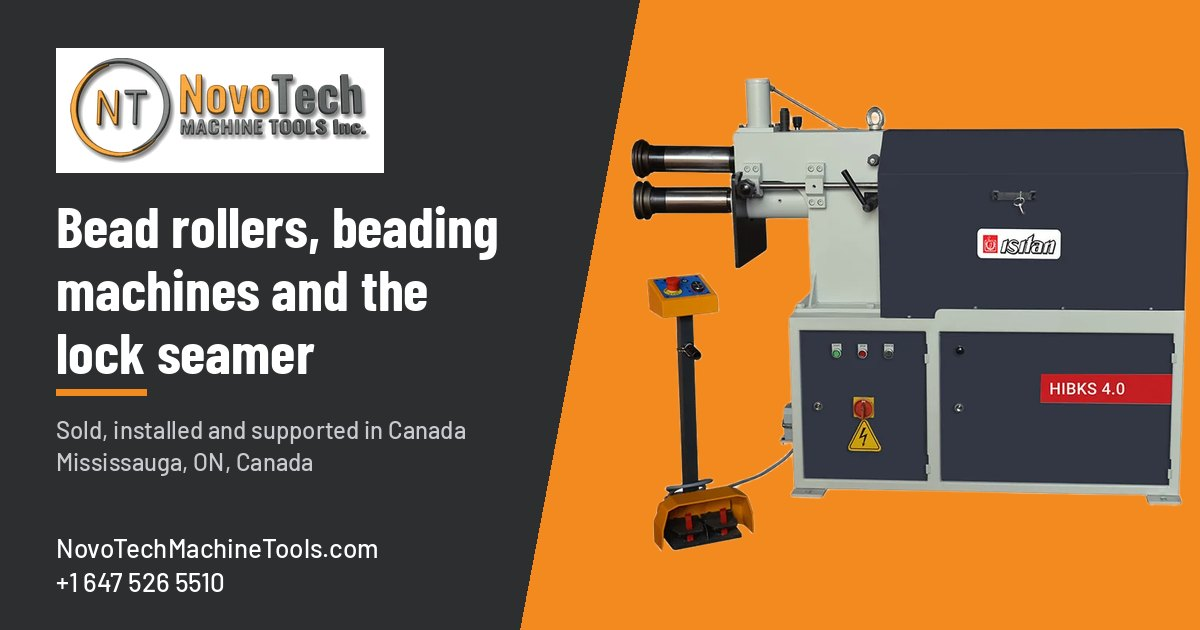
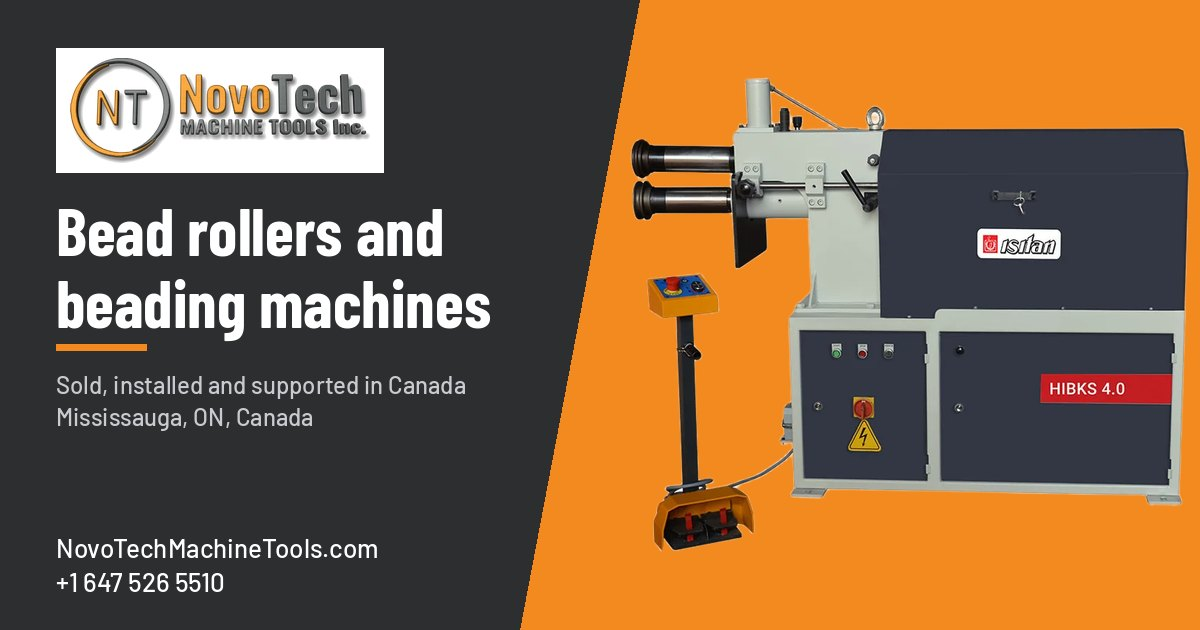
Lock former page: the ISITAN LS-13P lock seamer at the bottom (from the bead roller page); the SL-10 seam closer removed
- isitan_beading.py writes the LS-13P as an extra group on lock-former.html; the bead roller page is bead rollers only
- SL-10 electric seam closer taken off the site: family, group, point, FAQ, hero name, guide photo, llms.txt

Claude-Session: https://claude.ai/code/session_016dY3vwQZD75gmXKm3pvZH9

Changed region(s): [[0.0308, 0.3317, 0.4317, 0.754]]

diff --git a/content/articles/lock-former-guide.html b/content/articles/lock-former-guide.html
@@ -36,7 +36,6 @@
 <li>a hand brake for the cleat edges and flanges</li>
 </ol>
 <p>Round duct and fittings add a slip roll and a power beading and crimping machine. Plan the line so the sheet moves in one direction, from the coil or sheet rack to the finished duct.</p>
-<figure class="guide-figure" data-img="tm-sl10"></figure>
 </section>
 <section class="guide-section" id="lock-former-safety-power">
 <h3>Safety, power and installation</h3>

diff --git a/tools/isitan_beading.py b/tools/isitan_beading.py
@@ -4,6 +4,7 @@ from isitan_lib import *  # noqa: F401,F403
 SET = "beading"
 SECTION = "Bead rollers"
 SLUG = "bead-rollers"
+SLUG_LOCK = "lock-former"     # the LS-13P lock seamer sits at the bottom of the lock former page (the owner, Nov 7 2026)
 
 IMAGES = {
     "is-hibks-4": ("img/ISITAN-HIBKS-4.jpg", "ISITAN HIBKS 4.0 hydraulic bead roller for sheet up to 8 ga"),
@@ -139,7 +140,7 @@ FAMILIES = [
          images=["is-ibks-18", "is-ikm-12", "is-ikmp-12", "is-ikmp-12p", "is-ikm-rolls-std", "is-ikm-rolls-extra"],
          videos=[], specs=t_motorized(),
          headline="Beads sheet up to 14 ga (1.8 mm) · motorized · pneumatic top shaft on the IKMP 1.2 P"),
-    dict(id="isitan-ls-13p", group="seamer", page=SLUG,
+    dict(id="isitan-ls-13p", group="isitan-seamer", page=SLUG_LOCK,
          name="LS-13P pneumatic heavy-duty lock seaming machine",
          short="LS-13P lock seamer",
          models_label="LS-13P",
@@ -156,14 +157,13 @@ FAMILIES = [
 ]
 
 PAGE = dict(
-    title="Bead Rollers & Lock Seamer for Sheet Metal & HVAC | NovoTech",
-    meta="Hydraulic and motorized bead roller machines for sheet to 8 ga — HIBKS, IBKS, IKM and IKMP with beading, swaging and flanging roll sets — and the LS-13P pneumatic lock seamer.",
-    h1="Bead rollers, beading machines and the lock seamer",
+    title="Bead Rollers & Beading Machines for Sheet Metal & HVAC | NovoTech",
+    meta="Hydraulic and motorized bead roller machines for sheet to 8 ga — HIBKS, IBKS, IKM and IKMP with beading, swaging and flanging roll sets.",
+    h1="Bead rollers and beading machines",
     intro="Bead rollers — also called beading machines, rotary machines or swagers — form stiffening beads, wired edges, flanges, crimps and seams in sheet metal for HVAC ducts, drums, tanks, buckets and architectural work. ISITAN builds them motorized and hydraulic — from the IKM and IKMP cast-iron bead rollers with foot-pedal control to the HIBKS 4.0, whose hydraulic top roll beads 8 ga steel under constant pressure. Every machine comes with its sets of standard rolls, a CSA-approved panel and support from Mississauga, ON, Canada.",
-    points=["Hydraulic HIBKS and motorized IBKS for sheet to 8 ga (4 mm)", "Motorized IKM / IKMP with 4 speeds or pneumatic top shaft", "LS-13P lock seamer: closes Pittsburgh and snap-lock seams to 51″ on Ø3.9 – 5.1″ ducts in 18 ga", "Standard roll sets (4 to 8 per machine) and the roll spanner key included; extra sets made to order"],
+    points=["Hydraulic HIBKS and motorized IBKS for sheet to 8 ga (4 mm)", "Motorized IKM / IKMP with 4 speeds or pneumatic top shaft", "Standard roll sets (4 to 8 per machine) and the roll spanner key included; extra sets made to order"],
     hero="is-hibks-4", minis=["is-ikmp-12p", "is-ibks-18"],
-    groups=[("beading", "Bead rollers line-up", "From the IKM motorized bead roller to the hydraulic HIBKS 4.0 — all with standard roll sets included.", "isitan"),
-            ("seamer", "Lock seamer", "The LS-13P pneumatic lock seaming machine that closes the longitudinal seam of round ducts after the bead roller.", "isitan")],
+    groups=[("beading", "Bead rollers line-up", "From the IKM motorized bead roller to the hydraulic HIBKS 4.0 — all with standard roll sets included.", "isitan")],
     faq=[{"q": "Bead roller, beading machine, rotary machine or swager — what is the difference?", "a": "They are the same machine under different names: two shaft-mounted rolls that form a profile in sheet metal as it is turned through them. \"Bead roller\" is the common North American term, \"swager\" the older sheet-metal trade word, \"rotary machine\" the HVAC term. The roll sets decide what it does — beading, wiring, crimping, flanging, burring or trimming."},
          {"q": "Which rolls are included?", "a": "Every ISITAN bead roller ships with its standard roll sets — 4 sets (S1–S4) on the HIBKS / IBKS 4.0 and 2.5, 3 on the IBKS 1.8, 8 sets on the IKM 1.2 and IKMP 1.2 — plus the roll spanner key. Extra sets (E1–E8) and rolls for special jobs are made to order; tell us the profile you need."},
          {"q": "Hydraulic or motorized top roll?", "a": "On the IBKS the operator sets the gap between the rolls by hand and the motor turns them. On the HIBKS the top roll is moved hydraulically, so the pressure stays constant through the bead and deep beads in 8 ga steel are formed in one pass with the foot pedal — the choice for production work and heavier sheet."},
@@ -172,8 +172,24 @@ PAGE = dict(
 )
 
 
+# the LS-13P at the bottom of the value-line lock former page (tools/ttmc_more_pages.py writes that page)
+LOCK_EXTRA = {
+    "slug": SLUG_LOCK, "family_set": SET,
+    "groups": [{"id": "isitan-seamer-group", "title": "Lock seamer for round duct — ISITAN",
+                "lead": "The LS-13P pneumatic lock seaming machine that closes the longitudinal seam of round ducts and pipes.",
+                "brand": "isitan", "families": ["isitan-ls-13p"]}],
+    "intro_add": "At the bottom of the page, ISITAN's LS-13P pneumatic lock seamer, made in Turkey, closes the longitudinal lock seam of "
+                 "round ducts and pipes from Ø3.9 to 5.1″ in 18 ga, up to 51″ long.",
+    "points_add": ["ISITAN LS-13P pneumatic lock seamer: round-duct seams to 51.2″ long in 18 ga, Ø3.9 – 5.1″"],
+    "related_add": [{"href": "bead-rollers.html", "label": "Bead rollers and beading machines"}],
+    "set": {"hero_brand_line": "NovoTech's value-line HVAC machines are built in China to NovoTech's specification; the LS-13P lock seamer is made in "
+                               "Turkey by ISITAN Makine. All sold, installed and supported in Canada by NovoTech."},
+}
+
+
 def build():
     write_families(SET, FAMILIES)
-    write_category(SLUG, PAGE, FAMILIES, SET, SECTION,
-                   extra={"nav_label": "Bead rollers", "related_pages": [{"href": "circle-cutters-and-seamers.html", "label": "Circle cutters & lock seamers"}, {"href": "plate-rollers.html", "label": "Plate rollers & slip rolls"}]})
+    write_category(SLUG, PAGE, [f for f in FAMILIES if f["page"] == SLUG], SET, SECTION,
+                   extra={"nav_label": "Bead rollers", "related_pages": [{"href": "lock-former.html", "label": "Lock formers and HVAC machines"}, {"href": "circle-cutters-and-seamers.html", "label": "Circle cutters & lock seamers"}, {"href": "plate-rollers.html", "label": "Plate rollers & slip rolls"}]})
+    write_json(os.path.join(ROOT, "content", "extra_groups", "isitan-lock-former.json"), LOCK_EXTRA)
     return IMAGES

diff --git a/tools/ttmc_more_pages.py b/tools/ttmc_more_pages.py
@@ -82,21 +82,19 @@ PAGES = {
     ),
     D.P_LOCK: dict(
         title="Lock Formers — Pittsburgh Machines & HVAC Duct Tools | NovoTech",
-        meta="Pittsburgh lock formers for 26 – 16 ga duct, an auxiliary roll former for button lock and drive cleat, an electric seam closer, a power beading machine and a slitting machine.",
+        meta="Pittsburgh lock formers for 26 – 16 ga duct, an auxiliary roll former for button lock and drive cleat, a power beading machine, a slitting machine and a pneumatic lock seamer for round duct.",
         h1="Lock formers and HVAC duct machines — Pittsburgh lock formers, roll formers and duct tools",
         nav="Lock formers & HVAC",
         intro="A lock former (Pittsburgh machine) rolls the edge of a duct panel into the Pittsburgh lock — the pocket the matching flange is "
               "hammered into to close a rectangular duct — and, with other roll sets, double seams, drive cleats, button locks and flanges. "
               "NovoTech's value-line HVAC machines are built in China to our specification: the PF20G lock former for 26 – 20 ga, the PF16G "
               "for 25 – 16 ga with six roll forms as standard, and the AX20G auxiliary roll former whose roll sets change in under five "
-              "minutes; and the machines that finish the duct — the SL-10 electric seam closer, the RM18E power beading machine for round "
-              "duct and the LQ15 slitting and bending machine. Parts and support from Mississauga, ON, Canada.",
+              "minutes; and the machines for round duct — the RM18E power beading machine and the LQ15 slitting and bending machine. "
+              "Parts and support from Mississauga, ON, Canada.",
         points=["PF20G and PF16G Pittsburgh lock formers, 26 – 16 ga; AX20G roll former with button lock, drive cleat and 6-in-1 flange rolls",
-                "SL-10 electric seam closer: closes Pittsburgh seams in three stages, 26 – 20 ga, 13 – 23 ft/min",
                 "RM18E power beading machine for round duct, 15 ga; LQ15 slitting and bending machine, 16 ga × 47″"],
-        hero="tm-pf16g", minis=["tm-ax20g", "tm-sl10"],
+        hero="tm-pf16g", minis=["tm-ax20g", "tm-pf20g"],
         groups=[("lock", "Lock formers and roll formers", "The machines that roll the joints of rectangular duct: Pittsburgh locks, double seams, drive cleats, button locks and flanges.", False),
-                ("duct", "Electric seam closer", "The SL-10 closes the Pittsburgh seam after the lock former — faster and neater than a hammer.", False),
                 ("round", "Power beading and slitting machines", "For round duct and pipe: a power beading machine and a slitting and bending machine.", False)],
         faq=[{"q": "What is a Pittsburgh lock, and what gauge can a lock former take?",
               "a": "The Pittsburgh lock is the standard longitudinal seam of rectangular duct: the lock former rolls a pocket on one edge of the panel, the other edge is bent to a 90° flange, the flange goes into the pocket and the lip is hammered (or closed with a seam closer) over it. The PF20G forms it in 26 to 20 ga, the PF16G in 25 to 16 ga mild steel; galvanized steel is the usual material."},
@@ -104,8 +102,6 @@ PAGES = {
               "a": "The PF20G is the compact lock former for light duct — Pittsburgh, flange attachment and right angle in 26 – 20 ga, with double seam and drive cleat rolls as options. The PF16G takes duct to 16 ga and has six roll forms as standard — Pittsburgh, flange attachment, right angle, double seam, drive cleat and Z — on one machine. The AX20G is an auxiliary roll former for the joints a lock former does not make: button locks, Acme double seams, drive cleats and a 6-in-1 set of flanges and standing seams, with roll sets that change in five minutes."},
              {"q": "How much material does a Pittsburgh lock use?",
               "a": "About 1″ of sheet for the pocket; the adjustable auto-guides set the edge so the pocket depth is consistent and material waste stays at a minimum. Allow for it when you lay out the blanks."},
-             {"q": "Do I need a seam closer?",
-              "a": "For a few ducts a week the lip is closed with a hammer. For production the SL-10 runs along the seam and closes it in three stages — 30°, 75°, 90° — adjusting itself to the sheet thickness: faster, quieter and a neater seam than hammering."},
              VOLT],
         related=[{"href": "folder-sheet-metal-brake.html", "label": "Sheet metal brakes"}, {"href": "bead-rollers.html", "label": "Bead rollers and beading machines"},
                  {"href": "mechanical-guillotine-shear.html", "label": "Mechanical shears"}, {"href": "circle-cutters-and-seamers.html", "label": "Circle shears and flanging"},

diff --git a/tools/ttmc_more_data.py b/tools/ttmc_more_data.py
@@ -246,14 +246,7 @@ LOCK = [
        "AX20G: roll sets change without tools; quick jam release; roll sets at extra cost",
        "Single-phase or 3-phase motors: 1 HP (PF20G), 3 HP (PF16G), 4 HP (AX20G)"],
       ["tm-pf16g", "tm-pf20g", "tm-ax20g", "tm-lock-forms"], headline="26 – 16 ga mild steel", cap="[Capacity, mild steel] · [Speed]"),
-    F("tt-hvac", P_LOCK, "duct", "SL-10 electric seam closer for Pittsburgh seams, 26 – 20 ga", "SL-10 seam closer",
-      [pick(T["tt-hvac"][0], ["SL-10"], title="SL-10", sub="Electric seam closer for Pittsburgh seams")],
-      "The SL-10 runs along a Pittsburgh seam and closes it in three stages — 30°, 75° and 90° — adjusting itself to the sheet as it "
-      "goes: faster, quieter and neater than closing the lip with a hammer, on straight and curved rectangular duct in 26 – 20 ga. It "
-      "weighs 15 lb, so one hand guides it along the seam on the bench or on the job site.",
-      ["Closes Pittsburgh seams in 3 stages (30°, 75°, 90°)", "26 – 20 ga (0.5 – 1 mm) sheet; flange 0.28 – 0.35″ (7 – 9 mm)",
-       "13 – 23 ft/min (4 – 7 m/min); 1,400 W motor, 120 V or 230 V", "15 lb (6.6 kg) — portable"],
-      ["tm-sl10"], headline="26 – 20 ga duct", cap="[Job]"),
+    # the SL-10 electric seam closer is not sold any more (the owner, Nov 7 2026)
     F("tt-duct", P_LOCK, "round", "RM18E power beading machine and LQ15 slitting and bending machine", "Duct beading and slitting", [T["tt-etb"][1]],
       "Two powered machines for round duct: the RM18E puts single and offset beads on round duct — 15 ga (1.8 mm) with a 9-3/8″ throat, "
       "three standard roll sets and a foot pedal; the LQ15 slits 16 ga (1.5 mm) sheet up to 47″ wide and bends it for duct work.",

diff --git a/tools/site_pages.py b/tools/site_pages.py
@@ -35,8 +35,8 @@ BLURBS = {
     "plate-rollers": "Hydraulic 4-roll and 3-roll plate rollers, motorized plate rollers and slip rolls, from 22 ga sheet to heavy plate.",
     "angle-rolls": "Angle rolls, profile benders, ring rollers and tube rollers for angle, flat bar, pipe and profiles.",
     "hydraulic-press": "Shop and bench presses from 10 tons, H-frame, C-frame and four-column hydraulic presses to 551 US tons, production presses and orbital riveters.",
-    "bead-rollers": "Bead rollers, beading machines and a lock seamer for HVAC duct and sheet metal work.",
-    "lock-former": "Pittsburgh lock formers, roll formers, an electric seam closer and round duct beading and slitting machines for HVAC ductwork.",
+    "bead-rollers": "Bead rollers and beading machines for HVAC duct, auto body and sheet metal work.",
+    "lock-former": "Pittsburgh lock formers, roll formers, round duct beading and slitting machines and a pneumatic lock seamer for HVAC ductwork.",
     "circle-cutters-and-seamers": "Circle cutting and flanging machines for tank ends, dished heads and duct fittings.",
     "pipe-benders": "CNC, NC, all-electric and hydraulic pipe and tube benders, Ø15/32″ to Ø8-5/8″.",
     "pipe-notcher": "Tube notchers, hole-saw and end-mill notchers and belt tube-end grinders for frames, railings and roll cages.",
